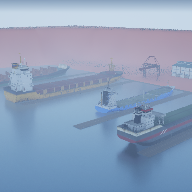
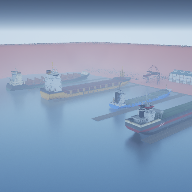
Raycast Lidar is now working (probably) properly

diff --git a/engine/Source/Holodeck/Sensors/Private/RaycastSemanticLidar.cpp b/engine/Source/Holodeck/Sensors/Private/RaycastSemanticLidar.cpp
@@ -192,6 +192,7 @@ bool URaycastSemanticLidar::ShootLaser(const float VerticalAngle, float Horizont
 
 	FTransform ActorTransf = Parent->GetTransform();
 	FVector LidarBodyLoc = ActorTransf.GetLocation();
+	//UE_LOG(LogHolodeck, Error, TEXT("%f, %f, %f"), LidarBodyLoc.X, LidarBodyLoc.Y, LidarBodyLoc.Z);
 	FRotator LidarBodyRot = ActorTransf.Rotator();
 
 	FRotator LaserRot(VerticalAngle, HorizontalAngle, 0); // float InPitch, float InYaw, float InRoll
@@ -202,6 +203,7 @@ bool URaycastSemanticLidar::ShootLaser(const float VerticalAngle, float Horizont
 
 	const auto Range = Description.Range;
 	FVector EndTrace = Range * UKismetMathLibrary::GetForwardVector(ResultRot) + LidarBodyLoc;
+	//UE_LOG(LogHolodeck, Error, TEXT("End Trace: %f, %f, %f"), EndTrace.X, EndTrace.Y, EndTrace.Z);
 
 	// TODO: This was parallel in Carla. UE5 is different though, would need to figure out the async.
 	// This is a major area for speed up in the future
@@ -209,11 +211,13 @@ bool URaycastSemanticLidar::ShootLaser(const float VerticalAngle, float Horizont
 		HitInfo,
 		LidarBodyLoc,
 		EndTrace,
-		ECC_GameTraceChannel2,
+		ECC_Visibility,
 		TraceParams,
 		FCollisionResponseParams::DefaultResponseParam
 	  );
 
+	
+	
 	if (HitInfo.bBlockingHit)
 	{
 		HitResult = HitInfo;

diff --git a/engine/Source/Holodeck/Sensors/Private/RaycastLidar.cpp b/engine/Source/Holodeck/Sensors/Private/RaycastLidar.cpp
@@ -37,7 +37,7 @@ void URaycastLidar::TickSensorComponent(float DeltaTime, ELevelTick TickType, FA
 {
 	SimulateLidar(DeltaTime);
 
-	UE_LOG(LogHolodeck, Error, TEXT("%llu number of elements!"), TempData.CountOfPoints())
+	//UE_LOG(LogHolodeck, Error, TEXT("%llu number of elements!"), TempData.CountOfPoints())
 
 	//float* FloatBuffer = static_cast<float*>(Buffer);
 	
@@ -46,6 +46,10 @@ void URaycastLidar::TickSensorComponent(float DeltaTime, ELevelTick TickType, FA
 	{
 		if (i < TempData.CountOfPoints())
 		{
+			/*if (i < 100)
+			{
+				UE_LOG(LogHolodeck, Error, TEXT("%f datapoint!"), TempData._points[i]);
+			}*/
 			Buffer[i] = static_cast<float>(TempData._points[i]);
 		}
 	}
@@ -119,6 +123,7 @@ bool URaycastLidar::PostprocessDetection(FDetection& Detection) const
 	if (Description.NoiseStdDev > std::numeric_limits<float>::epsilon())
 	{
 		const auto ForwardVector = Detection.point.GetSafeNormal();
+		UE_LOG(LogHolodeck, Error, TEXT("%f, %f, %f"), ForwardVector.X, ForwardVector.Y, ForwardVector.Z);
 		const auto Noise = ForwardVector * RandomEngine->GetNormalDistribution(0.0f, Description.NoiseStdDev);
 		Detection.point += Noise;
 	}

diff --git a/client/src/holoocean/sensors.py b/client/src/holoocean/sensors.py
@@ -1728,6 +1728,17 @@ class RGBDCamera(HoloOceanSensor):
         self._client.command_center.enqueue_command(command_to_send)
         self.tick_every = ticks_per_capture
 
+    # @property
+    # def sensor_data(self):
+    #     # data: self._sensor_data_buffer
+    #     # It already is a camera_width x camera_height x 4, so we just need to add another channel for converted distances
+        
+    #     distances = np.zeros(shape=(self.shape[0], self.shape[1], 1))
+
+
+
+    #     return np.concatenate(self._sensor_data_buffer, distances, axis=2)
+
 class SemanticSegmentationCamera(HoloOceanSensor):
     """Captures agent's view.
 

diff --git a/engine/Source/Holodeck/Sensors/Public/LidarDescription.h b/engine/Source/Holodeck/Sensors/Public/LidarDescription.h
@@ -19,11 +19,11 @@ public:
 
 	// Measure distance in centimeters
 	UPROPERTY(EditAnywhere)
-	float Range = 1000.0f;
+	float Range = 50000.0f;
 
 	/// Points generated by all lasers per second.
 	UPROPERTY(EditAnywhere)
-	uint32 PointsPerSecond = 56000u;
+	uint32 PointsPerSecond = 50000u;
 
 	/// Lidar rotation frequency.
 	UPROPERTY(EditAnywhere)
